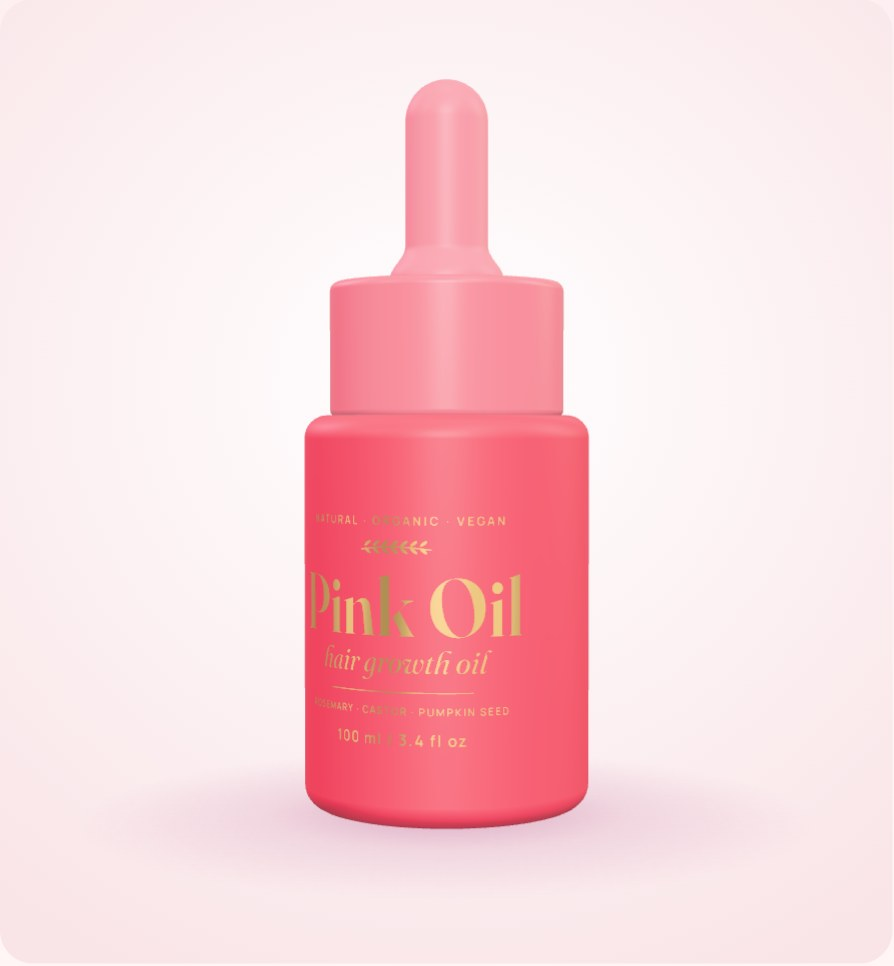
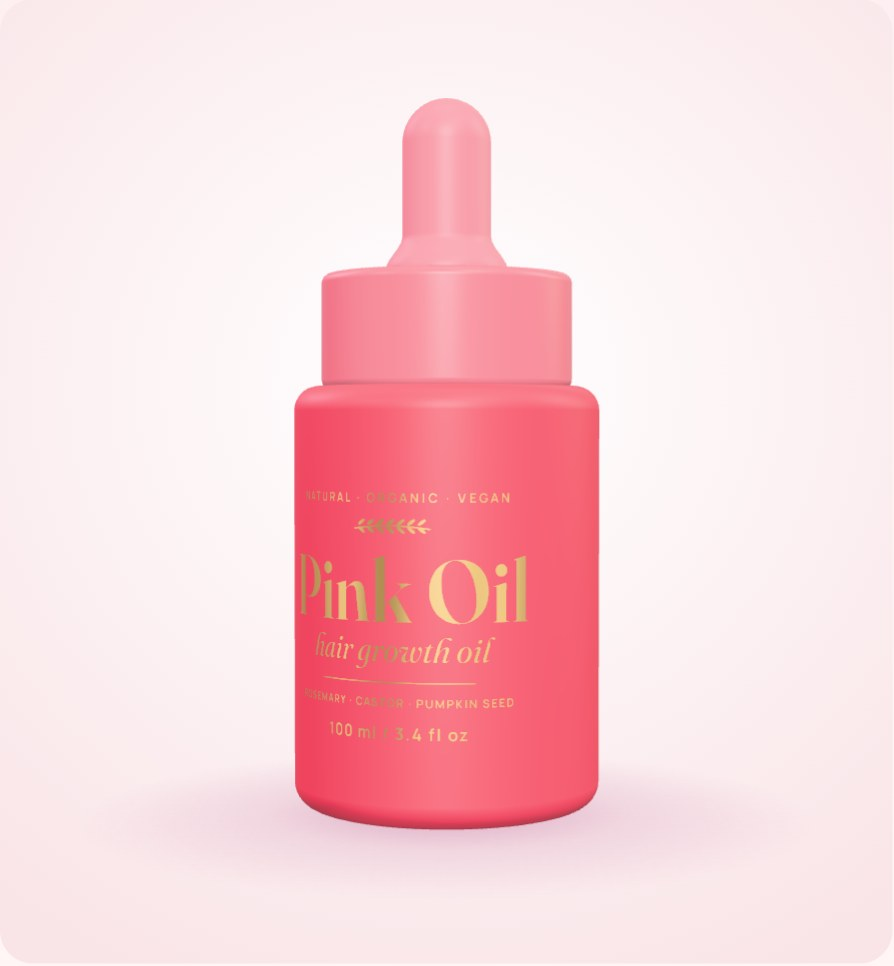
Shorten the bottle's cap and dropper further
Claude-Session: https://claude.ai/code/session_01DFs3jtfENwvkuyvkvMviti

diff --git a/src/index.html b/src/index.html
@@ -98,9 +98,9 @@
               <linearGradient id="pk" x1="0" x2="1"><stop offset="0" stop-color="#d9687a"/><stop offset=".45" stop-color="#f497a4"/><stop offset="1" stop-color="#d9687a"/></linearGradient>
             </defs>
             <ellipse cx="100" cy="306" rx="70" ry="8" fill="#7a1f45" opacity=".12"/>
-            <path d="M89 74h22v-24a11 11 0 0 0-22 0Z" fill="url(#pk)"/>
-            <rect x="85" y="69" width="30" height="9" rx="3" fill="url(#pk)"/>
-            <rect x="66" y="76" width="68" height="52" rx="5" fill="url(#pk)"/>
+            <path d="M89 84h22v-20a11 11 0 0 0-22 0Z" fill="url(#pk)"/>
+            <rect x="85" y="79" width="30" height="9" rx="3" fill="url(#pk)"/>
+            <rect x="66" y="86" width="68" height="42" rx="5" fill="url(#pk)"/>
             <rect x="56" y="126" width="88" height="176" rx="12" fill="url(#pb)"/>
             <g fill="#f2d08f" text-anchor="middle">
               <text x="100" y="186" font-family="Arial,sans-serif" font-size="4" letter-spacing=".4">NATURAL · ORGANIC · VEGAN</text>

diff --git a/src/js/bottle3d.js b/src/js/bottle3d.js
@@ -65,8 +65,8 @@ const COLORS = {
 };
 const BODY_H = 2.75;
 const CAP_R = 0.82;
-const CAP_H = 0.95;
-const MODEL_SCALE = 0.98; // full bottle ≈5.3 units tall, filling most of the frame so the print reads clearly
+const CAP_H = 0.75;
+const MODEL_SCALE = 1.05; // full bottle ≈5.1 units tall, filling most of the frame so the print reads clearly
 
 /** Lathe profile for a cylinder with rounded top and bottom edges. */
 function roundedCylinder(r, h, fillet, y0 = 0, steps = 8) {
@@ -91,7 +91,7 @@ function bulbProfile(y0) {
     const t = i / 6;
     pts.push(new Vector2(MathUtils.lerp(0.4, r, t * t * (3 - 2 * t)), y0 + 0.05 + t * 0.22));
   }
-  const top = y0 + 1.15;
+  const top = y0 + 0.88;
   pts.push(new Vector2(r, top));
   for (let i = 1; i <= 12; i++) {
     const a = (i / 12) * (Math.PI / 2);
